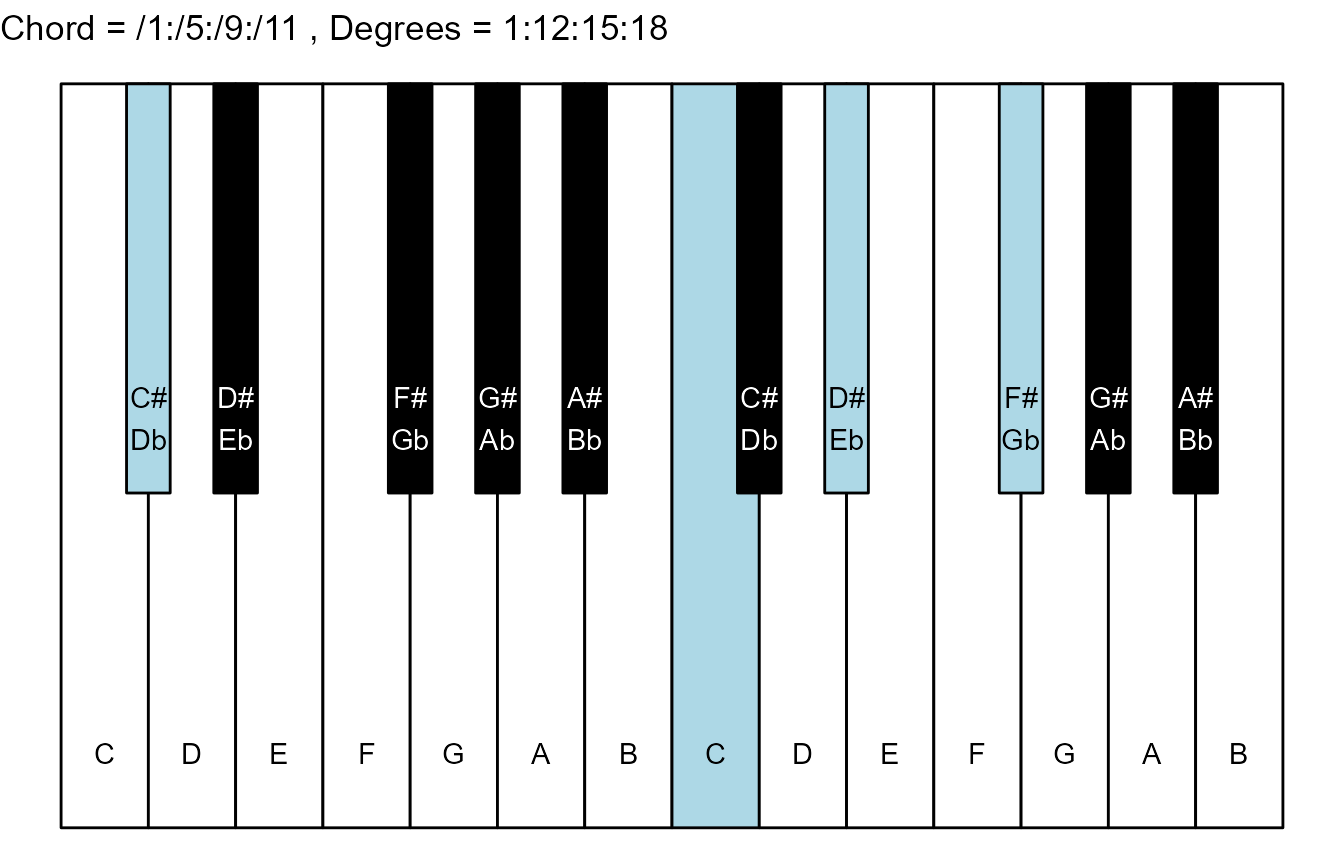
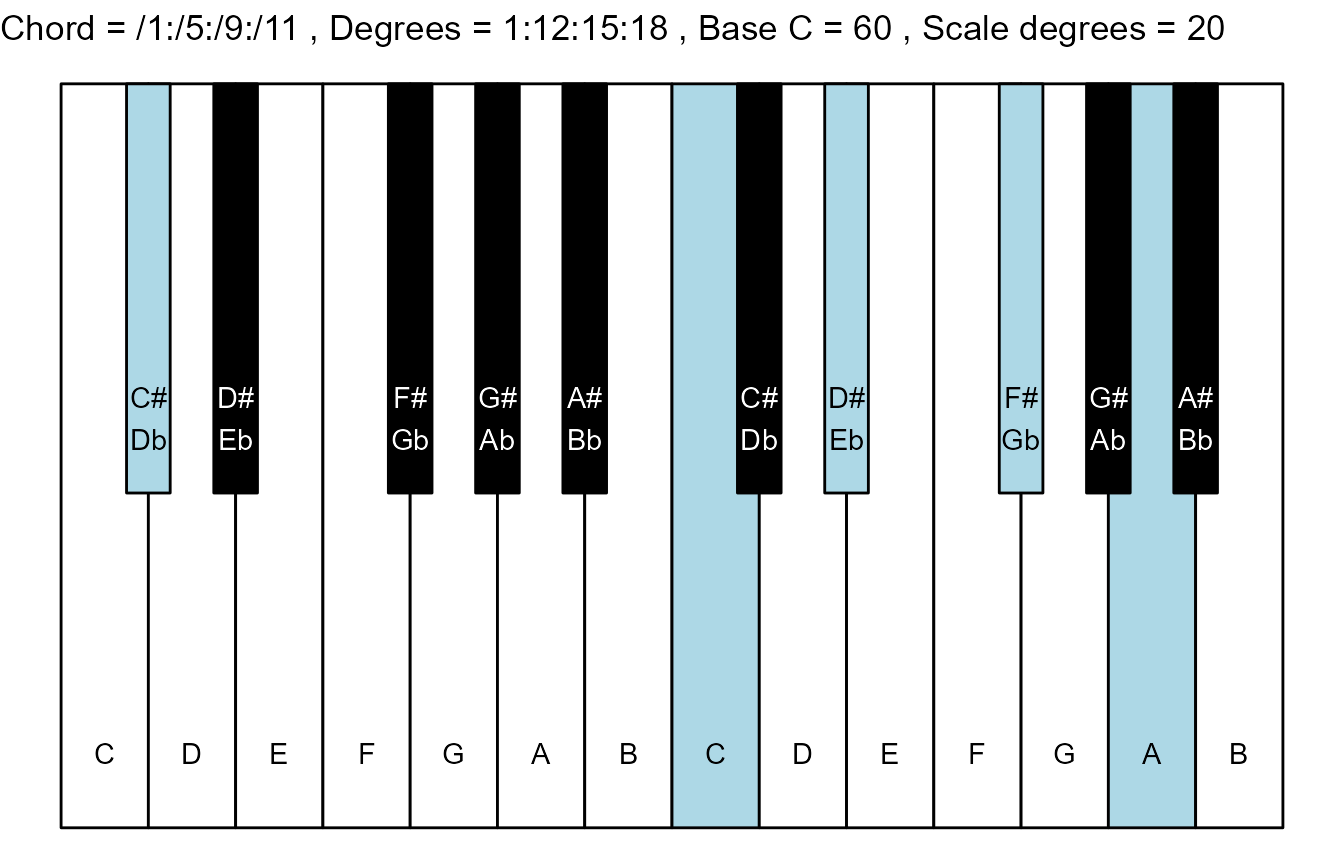
refactored chord plotter

diff --git a/docs/articles/plot-eikosany-chords.html b/docs/articles/plot-eikosany-chords.html
@@ -82,6 +82,9 @@
 <code class="sourceCode R"><span><span class="kw"><a href="https://rdrr.io/r/base/library.html" class="external-link">library</a></span><span class="op">(</span><span class="va"><a href="https://algocompsynth.github.io/eikosany/" class="external-link">eikosany</a></span><span class="op">)</span></span></code></pre></div>
 <div class="sourceCode" id="cb2"><pre class="downlit sourceCode r">
 <code class="sourceCode R"><span><span class="va">scale</span> <span class="op">&lt;-</span> <span class="fu"><a href="../reference/create_scale_table.html">create_scale_table</a></span><span class="op">(</span><span class="op">)</span> <span class="co"># 1-3-5-7-9-11 Eikosany is the default</span></span>
+<span><span class="va">scale_degrees</span> <span class="op">&lt;-</span> <span class="fu"><a href="https://rdrr.io/r/base/length.html" class="external-link">length</a></span><span class="op">(</span><span class="va">scale</span><span class="op">$</span><span class="va">degree</span><span class="op">)</span></span>
+<span><span class="va">map</span> <span class="op">&lt;-</span> <span class="fu"><a href="../reference/create_keyboard_map.html">create_keyboard_map</a></span><span class="op">(</span><span class="va">scale</span><span class="op">)</span></span>
+<span><span class="va">base_note_number</span> <span class="op">=</span> <span class="fl">60</span></span>
 <span><span class="va">chords</span> <span class="op">&lt;-</span> <span class="fu"><a href="../reference/create_chord_table.html">create_chord_table</a></span><span class="op">(</span><span class="va">scale</span>, choose <span class="op">=</span> <span class="fl">4</span><span class="op">)</span></span>
 <span><span class="va">chord_names</span> <span class="op">&lt;-</span> <span class="va">chords</span><span class="op">$</span><span class="va">chord</span></span>
 <span><span class="va">degrees</span> <span class="op">&lt;-</span> <span class="va">chords</span><span class="op">$</span><span class="va">degrees</span></span>
@@ -98,9 +101,15 @@
 <span>    <span class="va">chord_names</span><span class="op">[</span><span class="va">ichord</span><span class="op">]</span>,</span>
 <span>    <span class="st">", Degrees ="</span>,</span>
 <span>    <span class="va">degrees</span><span class="op">[</span><span class="va">ichord</span><span class="op">]</span>,</span>
+<span>    <span class="st">", Base C ="</span>,</span>
+<span>    <span class="va">base_note_number</span>,</span>
+<span>    <span class="st">", Scale degrees ="</span>,</span>
+<span>    <span class="va">scale_degrees</span>,</span>
 <span>    sep <span class="op">=</span> <span class="st">" "</span></span>
 <span>  <span class="op">)</span></span>
-<span>  <span class="va">piano_plot</span> <span class="op">&lt;-</span> <span class="fu"><a href="../reference/create_chord_plot.html">create_chord_plot</a></span><span class="op">(</span><span class="va">chord_vector</span>, <span class="va">title_string</span><span class="op">)</span></span>
+<span>  <span class="va">piano_plot</span> <span class="op">&lt;-</span> <span class="fu"><a href="../reference/create_chord_plot.html">create_chord_plot</a></span><span class="op">(</span></span>
+<span>    <span class="va">chord_vector</span>, <span class="va">title_string</span>, <span class="va">map</span>, <span class="va">base_note_number</span></span>
+<span>  <span class="op">)</span></span>
 <span>  <span class="fu"><a href="https://rdrr.io/r/base/print.html" class="external-link">print</a></span><span class="op">(</span><span class="va">piano_plot</span><span class="op">)</span></span>
 <span><span class="op">}</span></span></code></pre></div>
 <p><img src="plot-eikosany-chords_files/figure-html/unnamed-chunk-2-1.png" width="672"><img src="plot-eikosany-chords_files/figure-html/unnamed-chunk-2-2.png" width="672"><img src="plot-eikosany-chords_files/figure-html/unnamed-chunk-2-3.png" width="672"><img src="plot-eikosany-chords_files/figure-html/unnamed-chunk-2-4.png" width="672"><img src="plot-eikosany-chords_files/figure-html/unnamed-chunk-2-5.png" width="672"><img src="plot-eikosany-chords_files/figure-html/unnamed-chunk-2-6.png" width="672"><img src="plot-eikosany-chords_files/figure-html/unnamed-chunk-2-7.png" width="672"><img src="plot-eikosany-chords_files/figure-html/unnamed-chunk-2-8.png" width="672"><img src="plot-eikosany-chords_files/figure-html/unnamed-chunk-2-9.png" width="672"><img src="plot-eikosany-chords_files/figure-html/unnamed-chunk-2-10.png" width="672"><img src="plot-eikosany-chords_files/figure-html/unnamed-chunk-2-11.png" width="672"><img src="plot-eikosany-chords_files/figure-html/unnamed-chunk-2-12.png" width="672"><img src="plot-eikosany-chords_files/figure-html/unnamed-chunk-2-13.png" width="672"><img src="plot-eikosany-chords_files/figure-html/unnamed-chunk-2-14.png" width="672"><img src="plot-eikosany-chords_files/figure-html/unnamed-chunk-2-15.png" width="672"><img src="plot-eikosany-chords_files/figure-html/unnamed-chunk-2-16.png" width="672"><img src="plot-eikosany-chords_files/figure-html/unnamed-chunk-2-17.png" width="672"><img src="plot-eikosany-chords_files/figure-html/unnamed-chunk-2-18.png" width="672"><img src="plot-eikosany-chords_files/figure-html/unnamed-chunk-2-19.png" width="672"><img src="plot-eikosany-chords_files/figure-html/unnamed-chunk-2-20.png" width="672"><img src="plot-eikosany-chords_files/figure-html/unnamed-chunk-2-21.png" width="672"><img src="plot-eikosany-chords_files/figure-html/unnamed-chunk-2-22.png" width="672"><img src="plot-eikosany-chords_files/figure-html/unnamed-chunk-2-23.png" width="672"><img src="plot-eikosany-chords_files/figure-html/unnamed-chunk-2-24.png" width="672"><img src="plot-eikosany-chords_files/figure-html/unnamed-chunk-2-25.png" width="672"><img src="plot-eikosany-chords_files/figure-html/unnamed-chunk-2-26.png" width="672"><img src="plot-eikosany-chords_files/figure-html/unnamed-chunk-2-27.png" width="672"><img src="plot-eikosany-chords_files/figure-html/unnamed-chunk-2-28.png" width="672"><img src="plot-eikosany-chords_files/figure-html/unnamed-chunk-2-29.png" width="672"><img src="plot-eikosany-chords_files/figure-html/unnamed-chunk-2-30.png" width="672"></p>

diff --git a/docs/reference/create_chord_plot.html b/docs/reference/create_chord_plot.html
@@ -55,7 +55,7 @@
 
     <div class="section level2">
     <h2 id="ref-usage">Usage<a class="anchor" aria-label="anchor" href="#ref-usage"></a></h2>
-    <div class="sourceCode"><pre class="sourceCode r"><code><span><span class="fu">create_chord_plot</span><span class="op">(</span><span class="va">chord</span>, <span class="va">title_string</span><span class="op">)</span></span></code></pre></div>
+    <div class="sourceCode"><pre class="sourceCode r"><code><span><span class="fu">create_chord_plot</span><span class="op">(</span><span class="va">chord</span>, <span class="va">title_string</span>, <span class="va">keyboard_map</span>, <span class="va">base_note_number</span><span class="op">)</span></span></code></pre></div>
     </div>
 
     <div class="section level2">
@@ -68,6 +68,15 @@
 <dd><p>A string to use for a plot title. This will usually
 be the chord name from a chord table</p></dd>
 
+
+<dt>keyboard_map</dt>
+<dd><p>the keyboard map for the scale</p></dd>
+
+
+<dt>base_note_number</dt>
+<dd><p>must be == 0 modulo 12! The <code>pichor</code> keyboard
+has exactly 24 notes, starts with a "C" and ends with a "B".</p></dd>
+
 </dl></div>
     <div class="section level2">
     <h2 id="value">Value<a class="anchor" aria-label="anchor" href="#value"></a></h2>
@@ -79,7 +88,14 @@ be the chord name from a chord table</p></dd>
     <div class="section level2">
     <h2 id="ref-examples">Examples<a class="anchor" aria-label="anchor" href="#ref-examples"></a></h2>
     <div class="sourceCode"><pre class="sourceCode r"><code><span class="r-in"><span><span class="kw">if</span> <span class="op">(</span><span class="cn">FALSE</span><span class="op">)</span> <span class="op">{</span></span></span>
-<span class="r-in"><span>  <span class="fu"><a href="https://rdrr.io/r/base/print.html" class="external-link">print</a></span><span class="op">(</span><span class="fu">create_chord_plot</span><span class="op">(</span><span class="fu"><a href="https://rdrr.io/r/base/c.html" class="external-link">c</a></span><span class="op">(</span><span class="fl">1</span>, <span class="fl">6</span>, <span class="fl">11</span>, <span class="fl">15</span><span class="op">)</span>, <span class="st">"1:3:5:7"</span><span class="op">)</span><span class="op">)</span></span></span>
+<span class="r-in"><span>  <span class="va">eikosany</span> <span class="op">&lt;-</span> <span class="fu"><a href="create_scale_table.html">create_scale_table</a></span><span class="op">(</span><span class="op">)</span></span></span>
+<span class="r-in"><span>  <span class="va">eikosany_map</span> <span class="op">&lt;-</span> <span class="fu"><a href="create_keyboard_map.html">create_keyboard_map</a></span><span class="op">(</span><span class="va">eikosany</span><span class="op">)</span></span></span>
+<span class="r-in"><span>  <span class="fu"><a href="https://rdrr.io/r/base/print.html" class="external-link">print</a></span><span class="op">(</span><span class="fu">create_chord_plot</span><span class="op">(</span></span></span>
+<span class="r-in"><span>    <span class="fu"><a href="https://rdrr.io/r/base/c.html" class="external-link">c</a></span><span class="op">(</span><span class="fl">1</span>, <span class="fl">6</span>, <span class="fl">11</span>, <span class="fl">15</span><span class="op">)</span>,</span></span>
+<span class="r-in"><span>     <span class="st">"1:3:5:7"</span>,</span></span>
+<span class="r-in"><span>     <span class="va">eikosany_map</span>,</span></span>
+<span class="r-in"><span>     <span class="fl">60</span></span></span>
+<span class="r-in"><span>  <span class="op">)</span><span class="op">)</span></span></span>
 <span class="r-in"><span><span class="op">}</span></span></span>
 </code></pre></div>
     </div>

diff --git a/docs/articles/run-the-examples.html b/docs/articles/run-the-examples.html
@@ -220,18 +220,18 @@
 </h2>
 <div class="sourceCode" id="cb4"><pre class="downlit sourceCode r">
 <code class="sourceCode R"><span><span class="fu"><a href="https://rdrr.io/r/base/print.html" class="external-link">print</a></span><span class="op">(</span><span class="va">eikosany_interval_list</span> <span class="op">&lt;-</span><span class="fu"><a href="../reference/create_interval_list.html">create_interval_list</a></span><span class="op">(</span><span class="va">eikosany</span><span class="op">)</span><span class="op">)</span></span>
-<span><span class="co">#&gt;      from_name from_degree to_name to_degree     ratio ratio_frac ratio_cents</span></span>
-<span><span class="co">#&gt;   1:    3x7x11          19   1x3x5         0 0.5194805      40/77   -1133.830</span></span>
-<span><span class="co">#&gt;   2:    3x7x11          19  5x9x11         1 0.5357143      15/28   -1080.557</span></span>
-<span><span class="co">#&gt;   3:    3x7x11          19   1x7x9         2 0.5454545       6/11   -1049.363</span></span>
-<span><span class="co">#&gt;   4:    1x5x11          18   1x3x5         0 0.5454545       6/11   -1049.363</span></span>
-<span><span class="co">#&gt;   5:     1x3x9          17   1x3x5         0 0.5555556        5/9   -1017.596</span></span>
-<span><span class="co">#&gt;  ---                                                                         </span></span>
-<span><span class="co">#&gt; 396:     1x3x5           0   1x3x9        17 1.8000000        9/5    1017.596</span></span>
-<span><span class="co">#&gt; 397:     1x3x5           0  1x5x11        18 1.8333333       11/6    1049.363</span></span>
-<span><span class="co">#&gt; 398:     1x7x9           2  3x7x11        19 1.8333333       11/6    1049.363</span></span>
-<span><span class="co">#&gt; 399:    5x9x11           1  3x7x11        19 1.8666667      28/15    1080.557</span></span>
-<span><span class="co">#&gt; 400:     1x3x5           0  3x7x11        19 1.9250000      77/40    1133.830</span></span></code></pre></div>
+<span><span class="co">#&gt;      from_name from_degree to_name to_degree    ratio ratio_frac ratio_cents</span></span>
+<span><span class="co">#&gt;   1:    3x5x11           9   1x3x7        10 1.018182      56/55    31.19425</span></span>
+<span><span class="co">#&gt;   2:    5x9x11           1   1x7x9         2 1.018182      56/55    31.19425</span></span>
+<span><span class="co">#&gt;   3:     1x3x9          17  1x5x11        18 1.018519      55/54    31.76665</span></span>
+<span><span class="co">#&gt;   4:     3x7x9          13  5x7x11        14 1.018519      55/54    31.76665</span></span>
+<span><span class="co">#&gt;   5:    1x3x11           3   3x5x9         4 1.022727      45/44    38.90577</span></span>
+<span><span class="co">#&gt;  ---                                                                        </span></span>
+<span><span class="co">#&gt; 186:     1x3x5           0   1x3x9        17 1.800000        9/5  1017.59629</span></span>
+<span><span class="co">#&gt; 187:     1x3x5           0  1x5x11        18 1.833333       11/6  1049.36294</span></span>
+<span><span class="co">#&gt; 188:     1x7x9           2  3x7x11        19 1.833333       11/6  1049.36294</span></span>
+<span><span class="co">#&gt; 189:    5x9x11           1  3x7x11        19 1.866667      28/15  1080.55719</span></span>
+<span><span class="co">#&gt; 190:     1x3x5           0  3x7x11        19 1.925000      77/40  1133.83013</span></span></code></pre></div>
 </div>
 <div class="section level2">
 <h2 id="tetrads-of-the-eikosany">Tetrads of the eikosany<a class="anchor" aria-label="anchor" href="#tetrads-of-the-eikosany"></a>
